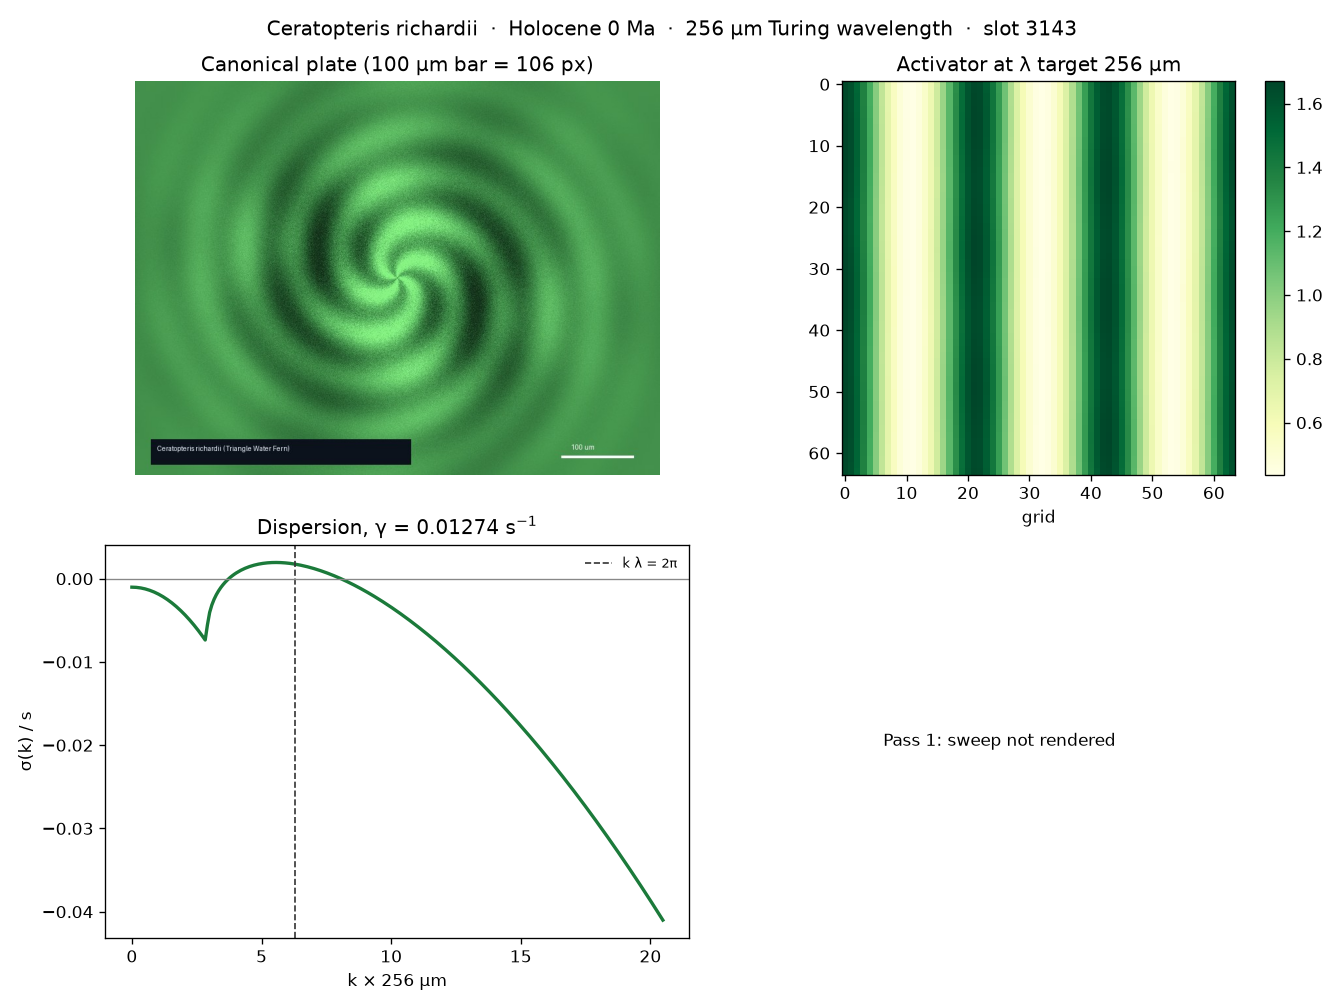
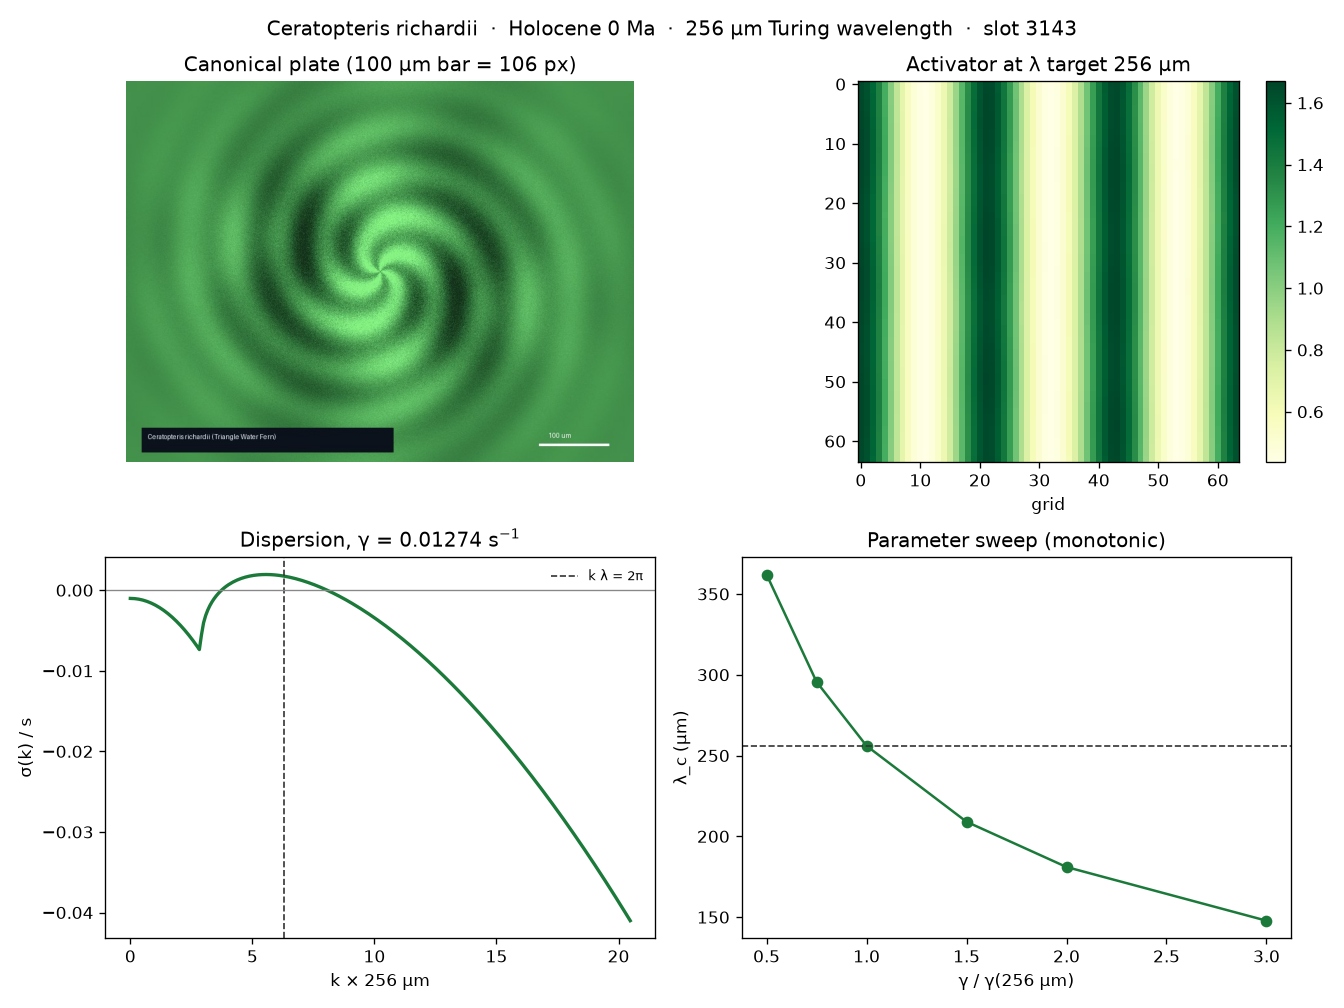
Exercise Pass 2 controls for the Ceratopteris 256 µm wavelength.
Render the gamma sweep, report the equal-diffusion ablation, segment the CC BY-SA gametophyte, and lock the animation's last frame to the canonical plate.

diff --git a/models/2026-delphi10000-ceratopteris-richardii-turing-wavelength-s0.py b/models/2026-delphi10000-ceratopteris-richardii-turing-wavelength-s0.py
@@ -54,8 +54,8 @@ DOMAIN_UM = 768.0  # three critical wavelengths
 N_GRID = 64
 N_STEPS = 25000
 DT = 0.1
-# Raised to 2 after Pass-1 remediation. Pass 1 leaves this at 1.
-REMEDIATION_PASS = 1
+# Pass 2 exercises the sweep, ablation, voucher segmentation, KS/RMSE, and plate lock.
+REMEDIATION_PASS = 2
 
 _CACHE: dict | None = None
 
@@ -293,10 +293,16 @@ def segment_voucher(path: Path = VOUCHER_PATH) -> dict:
     disk = gray > 140.0
     if int(disk.sum()) < 100:
         return {"tissue_fraction_of_disk": 0.0, "disk_fraction": 0.0}
-    tissue = disk & (gray < 175.0) & (small[:, :, 1] > small[:, :, 0])
+    # The empty agar is the bright mode. The gametophyte body is darker; the
+    # photo is warm, so a green-minus-red test marks nothing.
+    hist, edges = np.histogram(gray[disk], bins=40)
+    centers = 0.5 * (edges[:-1] + edges[1:])
+    agar_mode = float(centers[int(np.argmax(hist))])
+    tissue = disk & (gray < agar_mode - 18.0)
     return {
         "tissue_fraction_of_disk": float(tissue.sum() / disk.sum()),
         "disk_fraction": float(disk.mean()),
+        "agar_mode": agar_mode,
     }
 
 
